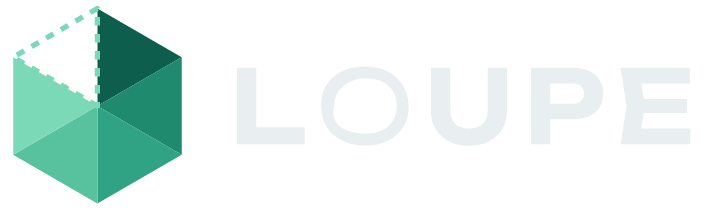
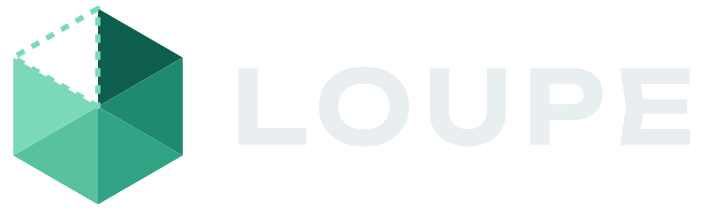
Fix the wordmark's O: extract LOUPE from a static weight-600 instance
The old paths came partly from the default master, so the O's strokes
were 12.7 units wide against 18.9 for the other letters. The new paths
come from a static wght=600 instance with overlaps removed, placed at
the font's own kerned advances plus 0.10em. A test measures each
letter's vertical stroke and fails if any is more than 12% off the
median. SVGs regenerated and PNGs re-exported; the mark is unchanged.

Claude-Session: https://claude.ai/code/session_01CjCKNmw4KdAWXWhAVtyfdB

diff --git a/tests/svg.ts b/tests/svg.ts
@@ -58,3 +58,58 @@ export function parseSvg(source: string): Node {
 }
 
 export const walk = (node: Node): Node[] => [node, ...node.children.flatMap(walk)];
+
+// The wordmark's strokes: flatten the outline, split it into letters, and measure each vertical stroke
+// along a horizontal line where that stroke stands alone. y runs down from the top of the capitals.
+type Point = [number, number];
+function contours(d: string): Point[][] {
+  const out: Point[][] = [];
+  const tokens = d.match(/[MLQCZ]|-?\d*\.?\d+/g) ?? [];
+  let at = 0;
+  let pen: Point = [0, 0];
+  const num = () => Number(tokens[at++]);
+  while (at < tokens.length) {
+    const op = tokens[at++];
+    if (op === 'M') out.push([(pen = [num(), num()])]);
+    else if (op === 'L') out.at(-1)!.push((pen = [num(), num()]));
+    else if (op === 'Q' || op === 'C') {
+      const pts: Point[] = [pen];
+      for (let i = 0; i < (op === 'Q' ? 2 : 3); i++) pts.push([num(), num()]);
+      for (let t = 1; t <= 16; t++) {
+        let layer = pts;
+        while (layer.length > 1) layer = layer.slice(1).map((p, i) => [layer[i][0] + (p[0] - layer[i][0]) * (t / 16), layer[i][1] + (p[1] - layer[i][1]) * (t / 16)]);
+        out.at(-1)!.push(layer[0]);
+      }
+      pen = pts.at(-1)!;
+    }
+  }
+  return out;
+}
+function letters(d: string): Point[][][] {
+  const box = (c: Point[]) => [Math.min(...c.map((p) => p[0])), Math.max(...c.map((p) => p[0]))];
+  const groups: Point[][][] = [];
+  for (const c of contours(d).sort((a, b) => box(b)[1] - box(b)[0] - (box(a)[1] - box(a)[0]))) {
+    const [lo, hi] = box(c);
+    const home = groups.find((g) => box(g[0])[0] <= lo && hi <= box(g[0])[1]);
+    if (home) home.push(c);
+    else groups.push([c]);
+  }
+  return groups.sort((a, b) => box(a[0])[0] - box(b[0])[0]);
+}
+const crossings = (letter: Point[][], y: number) =>
+  letter
+    .flatMap((c) => c.map((p, i) => [p, c[(i + 1) % c.length]] as const))
+    .filter(([a, b]) => a[1] <= y !== b[1] <= y)
+    .map(([a, b]) => a[0] + ((y - a[1]) / (b[1] - a[1])) * (b[0] - a[0]))
+    .sort((a, b) => a - b);
+// Where each stroke stands alone, as a share of the cap height: L's stem above its foot, O's left side at
+// mid-height, U's left stem above its bowl, P's stem below its bowl, E's stem between its top and middle arms.
+export const STEMS = { L: 0.4, O: 0.5, U: 0.3, P: 0.85, E: 0.25 };
+export function strokes(d: string, cap: number): Record<string, number> {
+  const found = letters(d);
+  if (found.length !== 5) throw new Error(`expected five letters, found ${found.length}`);
+  return Object.fromEntries(Object.entries(STEMS).map(([name, at], i) => {
+    const [left, right] = crossings(found[i], at * cap);
+    return [name, Math.round((right - left) * 10) / 10];
+  }));
+}

diff --git a/tests/brand.test.ts b/tests/brand.test.ts
@@ -5,7 +5,7 @@ import { test } from 'node:test';
 import { fileURLToPath } from 'node:url';
 import { inflateSync } from 'node:zlib';
 import { CENTER, CYCLE_SECONDS, FACETS, OPEN_STROKE, VERTICES, palette, render, wordmark } from '../scripts/brand.ts';
-import { parseSvg, walk } from './svg.ts';
+import { parseSvg, strokes, walk } from './svg.ts';
 
 const root = fileURLToPath(new URL('..', import.meta.url));
 const read = (path: string) => readFileSync(join(root, path), 'utf8');
@@ -292,5 +292,14 @@ test('the diagram marks known steps with Emerald edges, and the unknown path wit
     assert.deepEqual([rect(note).attrs.stroke, rect(note).attrs.fill, rect(note).attrs['stroke-dasharray']], [OPEN_STROKE[theme], 'none', '4 3'], theme);
     const text = walk(svg).filter((n) => n.name === 'text').map((n) => n.attrs.fill).filter(Boolean);
     assert.ok(text.includes(theme === 'light' ? hex('night') : hex('frost')), `${theme}: page text`);
+  }
+});
+
+test('every letter of the wordmark has the same stroke weight: each within 12% of the median', () => {
+  const widths = strokes(wordmark.d, wordmark.capHeight);
+  const sorted = Object.values(widths).sort((a, b) => a - b);
+  const median = sorted[2];
+  for (const [name, width] of Object.entries(widths)) {
+    assert.ok(Math.abs(width - median) / median <= 0.12, `${name} is ${width} wide against a median of ${median}: ${JSON.stringify(widths)}`);
   }
 });
